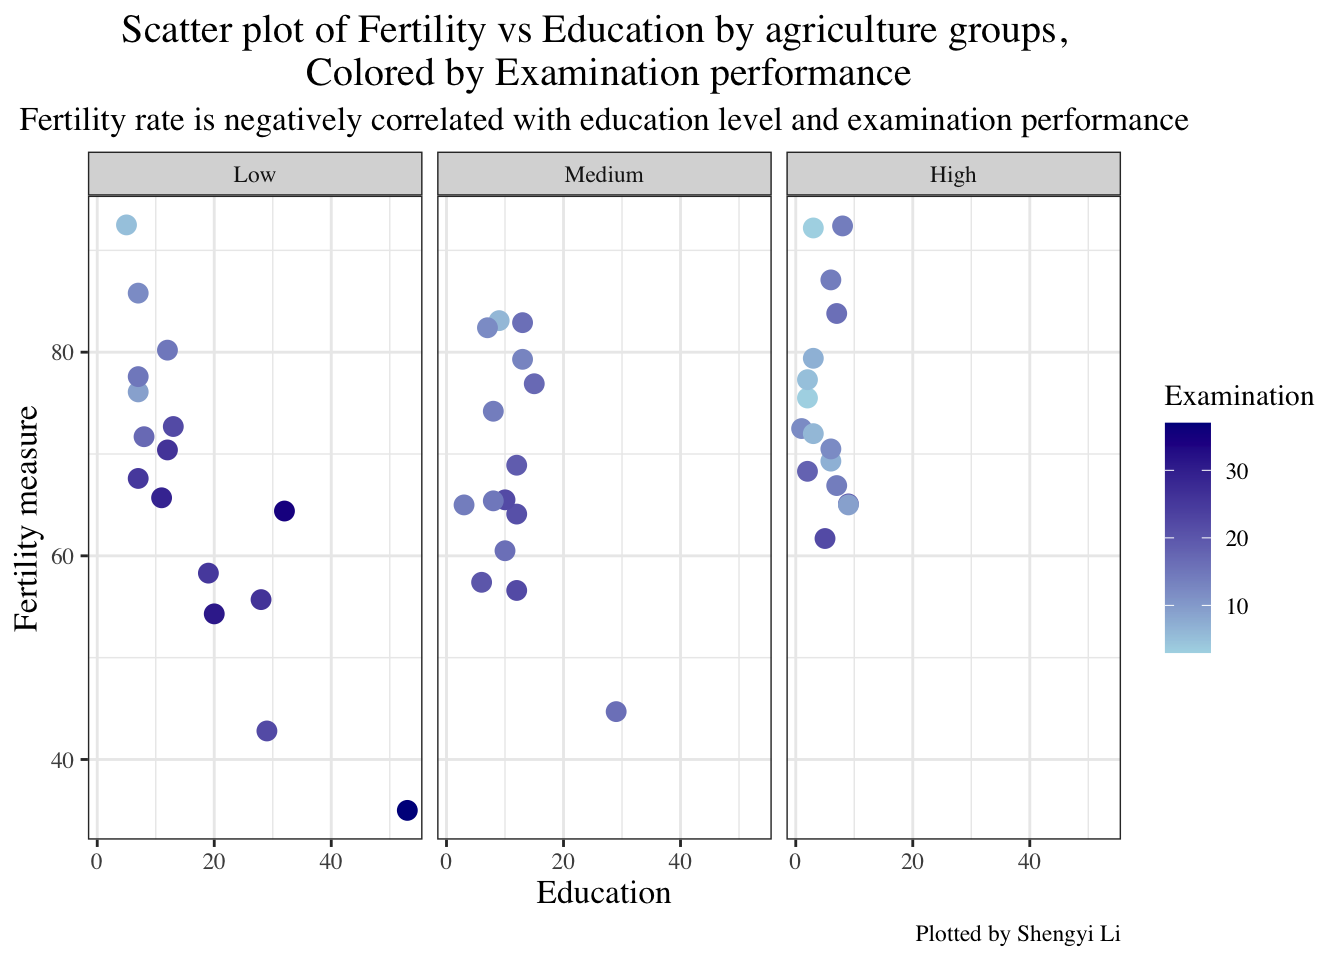
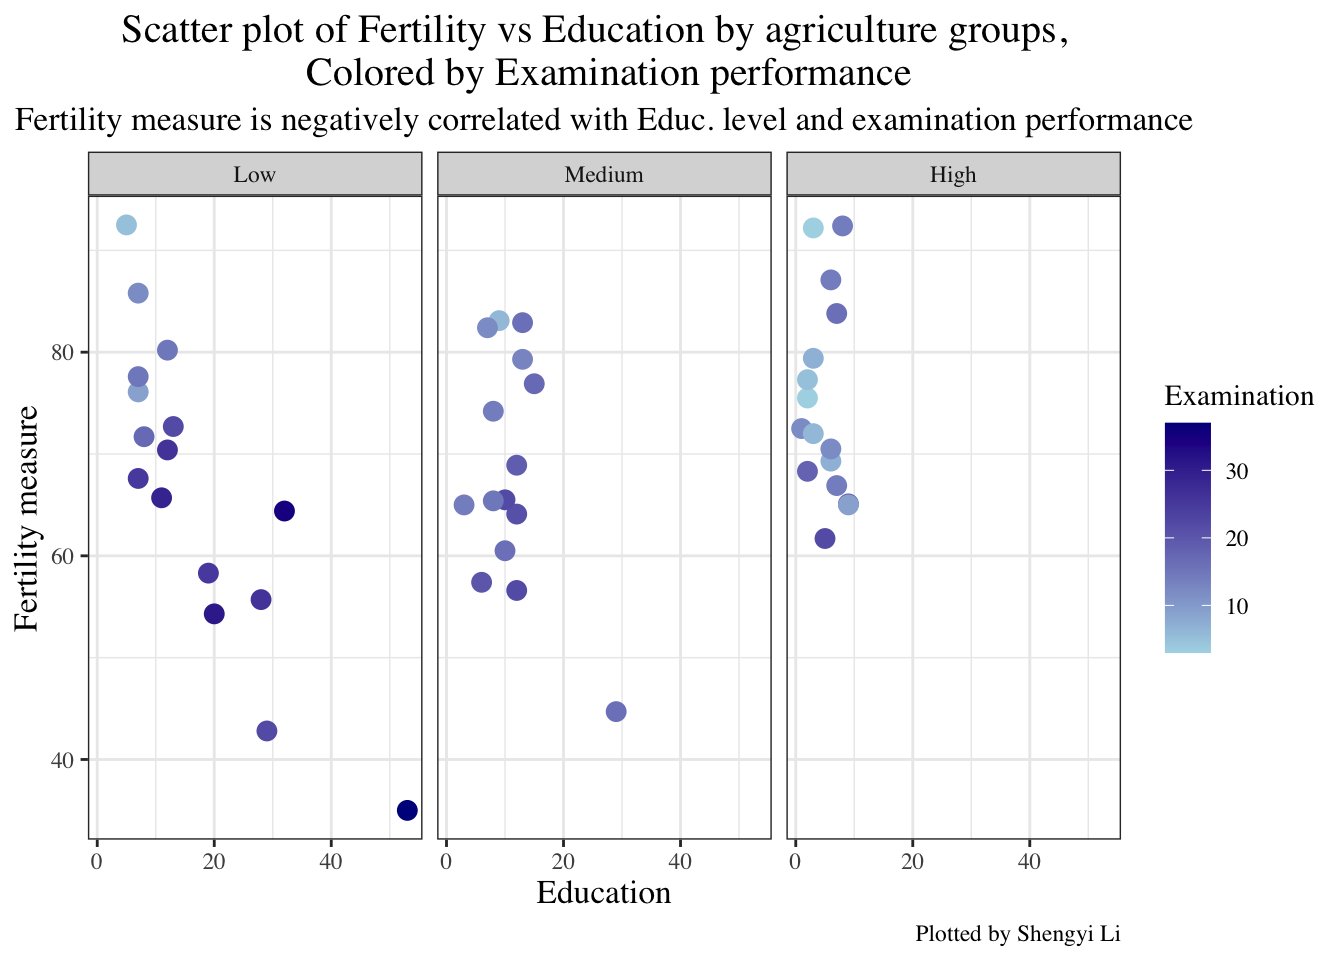
Built site for gh-pages

Changed region(s): [[0.0, 0.0938, 0.875, 0.1562]]

diff --git a/example_analysis.html b/example_analysis.html
@@ -226,7 +226,7 @@ div.csl-indent {
 </section>
 <section id="question" class="level2">
 <h2 class="anchored" data-anchor-id="question">Question</h2>
-<p>What was the association between standardized socioeconomic indicators and fertility rates across various French-speaking provinces of Switzerland around 1888?</p>
+<p>What was the association between standardized socioeconomic indicators and fertility measures across various French-speaking provinces of Switzerland around 1888?</p>
 </section>
 <section id="intended-audience" class="level2">
 <h2 class="anchored" data-anchor-id="intended-audience">Intended Audience</h2>
@@ -234,11 +234,11 @@ div.csl-indent {
 </section>
 <section id="data" class="level2 page-columns page-full">
 <h2 class="anchored" data-anchor-id="data">Data</h2>
-<p>This dataset contains standardized socioeconomic indicators and fertility rates for 47 Swiss French-speaking provinces in about 1888 <span class="citation" data-cites="a2024_r">(<a href="#ref-a2024_r" role="doc-biblioref"><span>“R: Swiss Fertility and Socioeconomic Indicators (1888) Data”</span> 2024</a>)</span>. It has a high research value, as Switzerland experienced a demographic transition in 1988, during which its fertility rates started declining from the levels typical of developing countries <span class="citation" data-cites="mosteller1977data">(<a href="#ref-mosteller1977data" role="doc-biblioref">Mosteller 1977</a>)</span>.</p>
+<p>This dataset contains standardized socioeconomic indicators and fertility measures for 47 Swiss French-speaking provinces in about 1888 <span class="citation" data-cites="a2024_r">(<a href="#ref-a2024_r" role="doc-biblioref"><span>“R: Swiss Fertility and Socioeconomic Indicators (1888) Data”</span> 2024</a>)</span>. It has a high research value, as Switzerland experienced a demographic transition in 1988, during which its fertility rates started declining from the levels typical of developing countries <span class="citation" data-cites="mosteller1977data">(<a href="#ref-mosteller1977data" role="doc-biblioref">Mosteller 1977</a>)</span>.</p>
 <section id="data-source" class="level3">
 <h3 class="anchored" data-anchor-id="data-source">Data Source</h3>
 <p>It is a built-in dataset in R, and its documentation manual is published by ETH Zurich <span class="citation" data-cites="a2024_r">(<a href="#ref-a2024_r" role="doc-biblioref"><span>“R: Swiss Fertility and Socioeconomic Indicators (1888) Data”</span> 2024</a>)</span>.</p>
-<div class="callout callout-style-simple callout-note">
+<div class="callout callout-style-simple callout-tip">
 <div class="callout-body d-flex">
 <div class="callout-icon-container">
 <i class="callout-icon"></i>
@@ -379,10 +379,10 @@ div.csl-indent {
 <div class="sourceCode cell-code" id="cb7"><pre class="sourceCode r code-with-copy"><code class="sourceCode r"><span id="cb7-1"><a href="#cb7-1" aria-hidden="true" tabindex="-1"></a>category_data <span class="sc">%&gt;%</span> <span class="fu">ggplot</span>(<span class="fu">aes</span>(<span class="at">x=</span>Agriculture_group,<span class="at">y=</span>Fertility))<span class="sc">+</span></span>
 <span id="cb7-2"><a href="#cb7-2" aria-hidden="true" tabindex="-1"></a>  <span class="fu">geom_boxplot</span>()<span class="sc">+</span></span>
 <span id="cb7-3"><a href="#cb7-3" aria-hidden="true" tabindex="-1"></a>  <span class="fu">labs</span>(<span class="at">x =</span> <span class="st">"Groups by percentage of males in agriculture"</span>, </span>
-<span id="cb7-4"><a href="#cb7-4" aria-hidden="true" tabindex="-1"></a>       <span class="at">y =</span> <span class="st">"Fertility rate"</span>, </span>
+<span id="cb7-4"><a href="#cb7-4" aria-hidden="true" tabindex="-1"></a>       <span class="at">y =</span> <span class="st">"Fertility measures"</span>, </span>
 <span id="cb7-5"><a href="#cb7-5" aria-hidden="true" tabindex="-1"></a>       <span class="at">color =</span> <span class="st">"Agriculture_group"</span>,</span>
-<span id="cb7-6"><a href="#cb7-6" aria-hidden="true" tabindex="-1"></a>       <span class="at">title =</span> <span class="st">"Boxplot of fertility rates by different agricultural employment levels"</span>,</span>
-<span id="cb7-7"><a href="#cb7-7" aria-hidden="true" tabindex="-1"></a>       <span class="at">subtitle =</span> <span class="st">"Sistributions of fertility rates among the three groups are similar"</span>,</span>
+<span id="cb7-6"><a href="#cb7-6" aria-hidden="true" tabindex="-1"></a>       <span class="at">title =</span> <span class="st">"Boxplot of fertility measures by different agricultural employment levels"</span>,</span>
+<span id="cb7-7"><a href="#cb7-7" aria-hidden="true" tabindex="-1"></a>       <span class="at">subtitle =</span> <span class="st">"Distributions of fertility measures among the three groups are similar"</span>,</span>
 <span id="cb7-8"><a href="#cb7-8" aria-hidden="true" tabindex="-1"></a>    <span class="at">caption =</span> <span class="st">"Plotted by Shengyi Li"</span>)<span class="sc">+</span></span>
 <span id="cb7-9"><a href="#cb7-9" aria-hidden="true" tabindex="-1"></a>  <span class="fu">theme_bw</span>(<span class="at">base_family =</span> <span class="st">"Times"</span>)<span class="sc">+</span></span>
 <span id="cb7-10"><a href="#cb7-10" aria-hidden="true" tabindex="-1"></a>  <span class="fu">theme</span>(<span class="at">plot.title =</span> <span class="fu">element_text</span>(<span class="at">size=</span><span class="dv">15</span>,<span class="at">hjust=</span><span class="fl">0.5</span>),</span>
@@ -397,8 +397,8 @@ div.csl-indent {
 </div>
 </div>
 </div>
-<p>As the percentage of males employed in agriculture increases, the mean fertility rate remains relatively stable; however, both the first quartile (Q1) and third quartile (Q3) within each group show a gradual increase. And outliers are more evident in the group with a low percentage of males employed in agriculture.</p>
-<p>We also examine how the percentage of males employed in agriculture affects the average infant mortality rate.</p>
+<p>As the percentage of males employed in agriculture increases, the mean fertility measures remains relatively stable; however, both the first quartile (Q1) and third quartile (Q3) within each group show a gradual increase. And outliers are more evident in the group with a low percentage of males employed in agriculture.</p>
+<p>We also examine how the percentage of males employed in agriculture affects the average infant mortality measures.</p>
 <div class="cell page-columns page-full">
 <div class="sourceCode cell-code" id="cb8"><pre class="sourceCode r code-with-copy"><code class="sourceCode r"><span id="cb8-1"><a href="#cb8-1" aria-hidden="true" tabindex="-1"></a>knitr<span class="sc">::</span><span class="fu">kable</span>(</span>
 <span id="cb8-2"><a href="#cb8-2" aria-hidden="true" tabindex="-1"></a>category_data <span class="sc">%&gt;%</span> <span class="fu">group_by</span>(Agriculture_group) <span class="sc">%&gt;%</span></span>
@@ -440,7 +440,7 @@ div.csl-indent {
 <span id="cb9-5"><a href="#cb9-5" aria-hidden="true" tabindex="-1"></a>  <span class="fu">scale_color_gradient</span>(<span class="at">low =</span> <span class="st">"lightblue"</span>, <span class="at">high =</span> <span class="st">"darkblue"</span>)<span class="sc">+</span></span>
 <span id="cb9-6"><a href="#cb9-6" aria-hidden="true" tabindex="-1"></a>  <span class="fu">labs</span>(<span class="at">y=</span><span class="st">"Fertility measure"</span>,</span>
 <span id="cb9-7"><a href="#cb9-7" aria-hidden="true" tabindex="-1"></a>  <span class="at">title =</span> <span class="st">'Scatter plot of Fertility vs Education by agriculture groups,  </span><span class="sc">\n</span><span class="st"> Colored by Examination performance'</span>,</span>
-<span id="cb9-8"><a href="#cb9-8" aria-hidden="true" tabindex="-1"></a>  <span class="at">subtitle=</span><span class="st">"Fertility rate is negatively correlated with education level and examination performance"</span>,</span>
+<span id="cb9-8"><a href="#cb9-8" aria-hidden="true" tabindex="-1"></a>  <span class="at">subtitle=</span><span class="st">"Fertility measure is negatively correlated with Educ. level and examination performance"</span>,</span>
 <span id="cb9-9"><a href="#cb9-9" aria-hidden="true" tabindex="-1"></a>  <span class="at">caption =</span> <span class="st">"Plotted by Shengyi Li"</span>)<span class="sc">+</span></span>
 <span id="cb9-10"><a href="#cb9-10" aria-hidden="true" tabindex="-1"></a>  <span class="fu">theme_bw</span>(<span class="at">base_family =</span> <span class="st">"Times"</span>)<span class="sc">+</span></span>
 <span id="cb9-11"><a href="#cb9-11" aria-hidden="true" tabindex="-1"></a>  <span class="fu">theme</span>(<span class="at">plot.title =</span> <span class="fu">element_text</span>(<span class="at">size=</span><span class="dv">15</span>,<span class="at">hjust=</span><span class="fl">0.5</span>),</span>
@@ -455,16 +455,16 @@ div.csl-indent {
 </div>
 </div>
 </div>
-<p>We observe that, across all provinces, fertility rates are generally above 50, while the percentages of education are typically below 20, and the proportion of high scores on exams is usually under 35. Additionally, provinces with lower education levels tend to perform worse on examinations and exhibit higher fertility rates. In groups with low percentages of males employed in agriculture, draftees are more likely to achieve the highest scores on the military exam.</p>
+<p>We observe that, across all provinces, fertility measures were generally above 50, while education percentages were typically below 20, and the proportions of high exam scores were usually under 35. Additionally, provinces with lower education levels tended to perform worse on examinations and exhibited higher fertility measures. In groups with low percentages of males employed in agriculture, draftees were more likely to achieve the highest scores on the military exam.</p>
 </section>
 </section>
 <section id="summary" class="level2">
 <h2 class="anchored" data-anchor-id="summary">Summary</h2>
 <ol type="1">
 <li>In 1988, the percentage of Swiss males employed in agriculture varied significantly across provinces, generally ranging between 20% and 70%.</li>
-<li>This percentage had minimal impact on the average infant mortality and fertility rates; however, the first and third quartiles of fertility rates showed a gradual increase as this percentage rose.</li>
+<li>This percentage had minimal impact on the average infant mortality and fertility measures; however, the first and third quartiles of fertility measures showed a gradual increase as this percentage rose.</li>
 <li>Draftees from provinces with lower percentages of males in agriculture tended to perform better on the military exam.</li>
-<li>Educated male percentages were positively correlated with draftees’ performance on the military exam, and these two are negatively correlated with fertility rates.</li>
+<li>Educated male percentages were positively correlated with draftees’ performance on the military exam, and these two are negatively correlated with fertility measures.</li>
 </ol>
 </section>
 <section id="function-used" class="level2">
